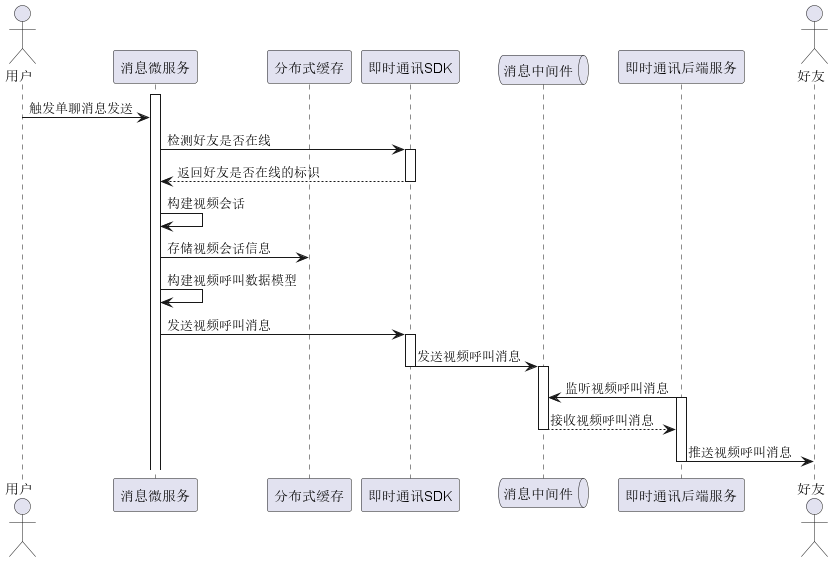
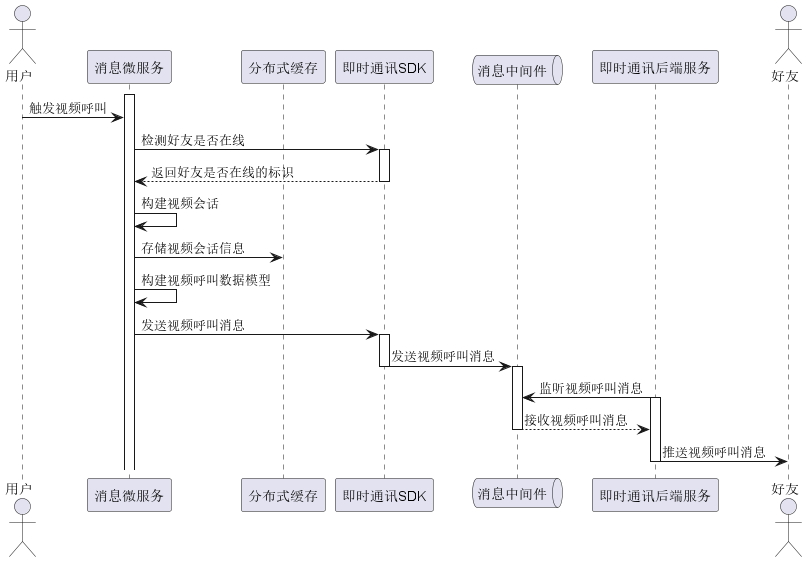
feat: 《分布式IM即时通讯系统》-大后端平台-视频通话-第02节

diff --git a/docs/.vuepress/config.js b/docs/.vuepress/config.js
@@ -2569,6 +2569,7 @@ function getBarPeojectIM() {
             sidebarDepth: 0,
             children: [
                 "platform/video/2024-01-31-chapter01.md",
+                "platform/video/2024-02-01-chapter02.md",
             ]
         },
         {

diff --git a/docs/md/project/im/platform/video/2024-02-01-chapter02.md b/docs/md/project/im/platform/video/2024-02-01-chapter02.md
@@ -1,0 +1,44 @@
+---
+title: 第02节：视频通话呼叫取消流程设计和实现
+pay: https://articles.zsxq.com/id_ehiqzri95tgg.html
+---
+
+# 《分布式IM系统》大后端平台-视频通话-第02节：视频通话呼叫取消流程设计和实现
+
+作者：冰河
+<br/>星球：[http://m6z.cn/6aeFbs](http://m6z.cn/6aeFbs)
+<br/>博客：[https://binghe.gitcode.host](https://binghe.gitcode.host)
+<br/>文章汇总：[https://binghe.gitcode.host/md/all/all.html](https://binghe.gitcode.host/md/all/all.html)
+<br/>源码获取地址：[https://t.zsxq.com/0dhvFs5oR](https://t.zsxq.com/0dhvFs5oR)
+
+> 沉淀，成长，突破，帮助他人，成就自我。
+
+* 本节难度：★★☆☆☆
+* 本节重点：对视频呼叫取消的流程进行设计和实现，从源码级别掌握视频呼叫取消的流程，重点理解用户取消视频呼叫的流程，以及视频呼叫取消的流程在整个分布式IM即时通讯系统中的流转过程，结合自身实际项目思考，将本节学到的知识灵活应用到自身实际项目中。
+
+**大家好，我是冰河~~**
+
+有这样一种场景：用户向好友发起视频呼叫时，如果好友长时间未接听，系统会自动取消视频呼叫，不能长时间一直呼叫。还有就是如果好友长时间不接听，用户也有可能自己手动取消视频呼叫。
+
+## 一、前言
+
+在前面的章节中，我们已经实现了文本消息、图片消息、文件消息、语音消息的完整流转过程，并且实现了用户向好友发起视频呼叫的功能。使用过QQ和微信的小伙伴，应该都知道这样一种场景：向好友发起视频呼叫，如果好友长时间未接通，那系统就会自动取消视频呼叫，还有就是用户可能会手动点击取消按钮来取消视频呼叫。那这种功能怎么实现呢？今天我们就一起实现视频呼叫取消的功能。
+
+## 二、本节诉求
+
+对视频呼叫取消的流程进行设计和实现，从源码级别掌握视频呼叫取消的流程，重点理解用户取消视频呼叫的流程，以及视频呼叫取消的流程在整个分布式IM即时通讯系统中的流转过程，结合自身实际项目思考，将本节学到的知识灵活应用到自身实际项目中。
+
+## 三、流程设计
+
+视频通话呼叫取消的流程如图2-1所示。
+
+<div align="center">
+    <img src="https://binghe.gitcode.host/images/project/im/2024-02-01-001.png?raw=true" width="70%">
+    <br/>
+</div>
+
+可以看到，整体流程还是比较简单的，主要涉及到用户及其好友、消息微服务、分布式缓存、即时通讯SDK、消息中间件、即时通讯后端服务等，具体流程参考图例即可。
+
+## 查看完整文章
+
+加入[冰河技术](http://m6z.cn/6aeFbs)知识星球，解锁完整技术文章与完整代码

diff --git a/docs/md/all/all.md b/docs/md/all/all.md
@@ -321,6 +321,7 @@ title: 冰河指南
 * [《分布式IM系统》大后端平台-消息服务-第08节：群聊消息的撤回流程设计和实现](https://articles.zsxq.com/id_21pu7ojtv7rw.html)
 * [《分布式IM系统》大后端平台-消息服务-第09节：图片、文件和语音消息的设计和实现](https://articles.zsxq.com/id_1f32q87wrs3h.html)
 * [《分布式IM系统》大后端平台-视频通话-第01节：视频通话呼叫发起流程设计和实现](https://articles.zsxq.com/id_pi8ww36ac0t3.html)
+* [《分布式IM系统》大后端平台-视频通话-第02节：视频通话呼叫取消流程设计和实现](https://articles.zsxq.com/id_ehiqzri95tgg.html)
 
 ### 💥 分布式Seckill秒杀系统
 

diff --git a/docs/md/other/guide-to-reading.md b/docs/md/other/guide-to-reading.md
@@ -298,6 +298,7 @@ title: 冰河指南
 * [《分布式IM系统》大后端平台-消息服务-第08节：群聊消息的撤回流程设计和实现](https://articles.zsxq.com/id_21pu7ojtv7rw.html)
 * [《分布式IM系统》大后端平台-消息服务-第09节：图片、文件和语音消息的设计和实现](https://articles.zsxq.com/id_1f32q87wrs3h.html)
 * [《分布式IM系统》大后端平台-视频通话-第01节：视频通话呼叫发起流程设计和实现](https://articles.zsxq.com/id_pi8ww36ac0t3.html)
+* [《分布式IM系统》大后端平台-视频通话-第02节：视频通话呼叫取消流程设计和实现](https://articles.zsxq.com/id_ehiqzri95tgg.html)
 
 ### 💥 Seckill秒杀系统
 

diff --git a/README.md b/README.md
@@ -331,6 +331,7 @@
 * [《分布式IM系统》大后端平台-消息服务-第08节：群聊消息的撤回流程设计和实现](https://articles.zsxq.com/id_21pu7ojtv7rw.html)
 * [《分布式IM系统》大后端平台-消息服务-第09节：图片、文件和语音消息的设计和实现](https://articles.zsxq.com/id_1f32q87wrs3h.html)
 * [《分布式IM系统》大后端平台-视频通话-第01节：视频通话呼叫发起流程设计和实现](https://articles.zsxq.com/id_pi8ww36ac0t3.html)
+* [《分布式IM系统》大后端平台-视频通话-第02节：视频通话呼叫取消流程设计和实现](https://articles.zsxq.com/id_ehiqzri95tgg.html)
 
 ### 💥 Seckill秒杀系统
 
